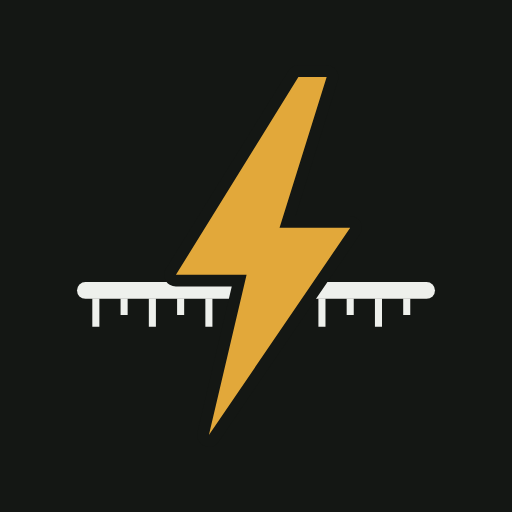
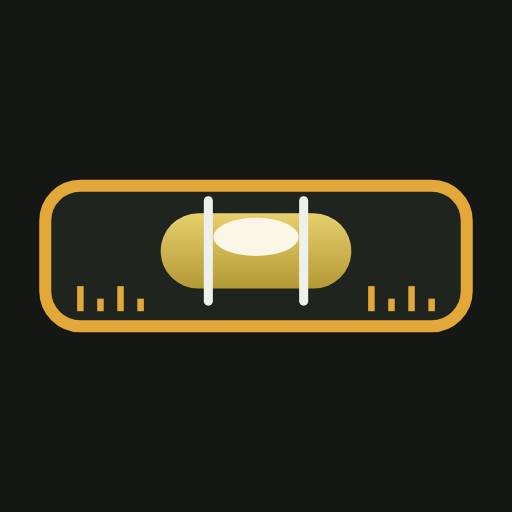
Abertura e ícone com nível de bolha: a bolha se acomoda no centro e o nome aparece
Claude-Session: https://claude.ai/code/session_017oJyFuK3FA9F6xfa9LApCQ

Changed region(s): [[0.0625, 0.125, 0.9375, 0.8438]]

diff --git a/index.html b/index.html
@@ -419,80 +419,74 @@ body.lock{overflow:hidden}
 @media (max-width:380px){.av-icones{grid-template-columns:repeat(4,minmax(0,1fr))}.av-cores{grid-template-columns:repeat(4,minmax(0,1fr))}}
 [hidden]{display:none!important}
 
-/* ---------- abertura: raio de verdade (canvas) + nome no impacto ---------- */
-.intro{position:fixed;inset:0;z-index:100;background:#0b0d0b;overflow:hidden;cursor:pointer}
-.intro.sai{transition:opacity .45s ease;opacity:0}
+/* ---------- abertura: nível de bolha que se acomoda no centro ---------- */
+.intro{position:fixed;inset:0;z-index:100;background:radial-gradient(120% 80% at 50% 45%,#1d211c 0%,#0e100e 70%);overflow:hidden;cursor:pointer;display:grid;place-items:center}
+.intro.sai{transition:opacity .5s ease;opacity:0}
 .sem-intro .intro{display:none}
-.intro canvas{position:absolute;inset:0;width:100%;height:100%}
-.intro-txt{position:absolute;left:0;right:0;top:50%;transform:translateY(-62%);display:grid;justify-items:center;gap:14px;pointer-events:none}
-.intro-nome{font-family:var(--display);font-weight:700;font-size:clamp(3.2rem,16vw,5.6rem);line-height:1;letter-spacing:.08em;color:#f4f1e6;text-transform:uppercase;opacity:0;white-space:nowrap}
-.intro-regua{position:relative;width:min(80vw,340px);height:16px;opacity:0}
-.intro-regua i{position:absolute;left:0;right:0;top:0;height:3px;border-radius:2px;background:#e2a83a;transform:scaleX(0);box-shadow:0 0 10px rgba(226,168,58,.8)}
-.intro-regua b{position:absolute;top:3px;width:2px;height:7px;background:#e2a83a;opacity:0}
-.intro-regua b.g{height:12px}
-.intro.hit .intro-nome{animation:nome-hit 1.1s cubic-bezier(.2,.8,.2,1) forwards}
-.intro.hit .intro-regua{opacity:1}
-.intro.hit .intro-regua i{animation:regua-hit .5s .08s cubic-bezier(.2,.8,.2,1) forwards}
-.intro.hit .intro-regua b{animation:tick-hit .2s forwards}
-.intro.shake .intro-txt{animation:shake .38s linear}
-@keyframes nome-hit{0%{opacity:1;color:#fff;transform:scale(1.18);filter:blur(6px);text-shadow:0 0 30px #fff,0 0 60px #e2a83a}
- 25%{filter:blur(0);transform:scale(1)}100%{opacity:1;color:#f4f1e6;transform:scale(1);filter:none;text-shadow:0 0 18px rgba(226,168,58,.45)}}
-@keyframes regua-hit{to{transform:scaleX(1)}}
-@keyframes tick-hit{to{opacity:.9}}
-@keyframes shake{0%,100%{transform:translateY(-62%)}15%{transform:translate(-7px,-60%)}30%{transform:translate(6px,-64%)}45%{transform:translate(-4px,-61%)}60%{transform:translate(3px,-63%)}80%{transform:translate(-1px,-62%)}}
-@media (prefers-reduced-motion:reduce){.intro.hit .intro-nome,.intro.hit .intro-regua i,.intro.hit .intro-regua b{animation:none;opacity:1;transform:none;filter:none}.intro.shake .intro-txt{animation:none}}
+.nv-wrap{display:grid;grid-template-columns:minmax(0,1fr);justify-items:center;gap:30px;width:min(84vw,360px);transform:translateY(-4%)}
+.nv{width:100%;height:auto;overflow:visible;will-change:transform}
+.nv .corpo{fill:#1f241f;stroke:#3a4037;stroke-width:1.5}
+.nv .aresta{fill:none;stroke:#e2a83a;stroke-width:1.6;opacity:.55;transition:opacity .4s}
+.nv .tubo{fill:url(#liq);stroke:#4a503f;stroke-width:1.2}
+.nv .bolha{fill:#fbf6e6;opacity:.92}
+.nv .brilho{fill:#fff;opacity:.85}
+.nv .marca{stroke:#9aa296;stroke-width:2;stroke-linecap:round;transition:stroke .2s}
+.nv .tk{stroke:#5d6458;stroke-width:1.4;transition:stroke .25s,opacity .25s}
+.nv .halo{fill:#e2a83a;opacity:0}
+.intro.ok .nv .marca{stroke:#e2a83a}
+.intro.ok .nv .aresta{opacity:1}
+.intro.ok .nv .halo{animation:halo .9s ease-out forwards}
+.intro.ok .nv .tk{stroke:#e2a83a}
+.nv-nome{justify-self:center;max-width:none;font-family:var(--display);font-weight:700;font-size:clamp(3rem,15vw,5.2rem);line-height:1;letter-spacing:.5em;color:#eef0ec;text-transform:uppercase;opacity:0;white-space:nowrap;margin-right:-.5em}
+.intro.ok .nv-nome{animation:nome-ok .9s .1s cubic-bezier(.2,.8,.2,1) forwards}
+.nv-sub{font-family:var(--body);font-size:.8rem;letter-spacing:.3em;text-transform:uppercase;color:#9aa296;opacity:0;margin-top:-18px}
+.intro.ok .nv-sub{animation:fade-ok .6s .55s ease forwards}
+@keyframes halo{0%{opacity:.55;transform:scale(.6)}100%{opacity:0;transform:scale(2.4)}}
+@keyframes nome-ok{0%{opacity:0;letter-spacing:.5em;margin-right:-.5em;filter:blur(4px)}100%{opacity:1;letter-spacing:.08em;margin-right:-.08em;filter:none}}
+@keyframes fade-ok{to{opacity:1}}
+@media (prefers-reduced-motion:reduce){.intro.ok .nv-nome,.intro.ok .nv-sub{animation:none;opacity:1;letter-spacing:.08em}.intro.ok .nv .halo{animation:none}}
 </style>
 
 
 </head>
 <body>
 <div class="intro" id="intro" aria-hidden="true">
- <canvas id="intro-cv"></canvas>
- <div class="intro-txt"><div class="intro-nome">Na Régua</div><div class="intro-regua"><i></i><b class="g" style="left:calc(0% - 1px);animation-delay:0.400s"></b><b class="" style="left:calc(5% - 1px);animation-delay:0.375s"></b><b class="" style="left:calc(10% - 1px);animation-delay:0.350s"></b><b class="" style="left:calc(15% - 1px);animation-delay:0.325s"></b><b class="" style="left:calc(20% - 1px);animation-delay:0.300s"></b><b class="g" style="left:calc(25% - 1px);animation-delay:0.275s"></b><b class="" style="left:calc(30% - 1px);animation-delay:0.250s"></b><b class="" style="left:calc(35% - 1px);animation-delay:0.225s"></b><b class="" style="left:calc(40% - 1px);animation-delay:0.200s"></b><b class="" style="left:calc(45% - 1px);animation-delay:0.175s"></b><b class="g" style="left:calc(50% - 1px);animation-delay:0.150s"></b><b class="" style="left:calc(55% - 1px);animation-delay:0.175s"></b><b class="" style="left:calc(60% - 1px);animation-delay:0.200s"></b><b class="" style="left:calc(65% - 1px);animation-delay:0.225s"></b><b class="" style="left:calc(70% - 1px);animation-delay:0.250s"></b><b class="g" style="left:calc(75% - 1px);animation-delay:0.275s"></b><b class="" style="left:calc(80% - 1px);animation-delay:0.300s"></b><b class="" style="left:calc(85% - 1px);animation-delay:0.325s"></b><b class="" style="left:calc(90% - 1px);animation-delay:0.350s"></b><b class="" style="left:calc(95% - 1px);animation-delay:0.375s"></b><b class="g" style="left:calc(100% - 1px);animation-delay:0.400s"></b></div></div>
+ <div class="nv-wrap">
+  <svg class="nv" id="nv" viewBox="0 0 320 64">
+   <defs><linearGradient id="liq" x1="0" y1="0" x2="0" y2="1"><stop offset="0" stop-color="#d9c86a"/><stop offset="1" stop-color="#a99a3c"/></linearGradient>
+    <clipPath id="tubo-c"><rect x="110" y="12" width="100" height="24" rx="12"/></clipPath></defs>
+   <rect class="corpo" x="4" y="4" width="312" height="44" rx="9"/>
+   <rect class="aresta" x="4" y="4" width="312" height="44" rx="9"/>
+   <line class="tk" x1="20" y1="44" x2="20" y2="36" data-d="140"/><line class="tk" x1="30" y1="44" x2="30" y2="40" data-d="130"/><line class="tk" x1="40" y1="44" x2="40" y2="40" data-d="120"/><line class="tk" x1="50" y1="44" x2="50" y2="40" data-d="110"/><line class="tk" x1="60" y1="44" x2="60" y2="36" data-d="100"/><line class="tk" x1="70" y1="44" x2="70" y2="40" data-d="90"/><line class="tk" x1="80" y1="44" x2="80" y2="40" data-d="80"/><line class="tk" x1="90" y1="44" x2="90" y2="40" data-d="70"/><line class="tk" x1="100" y1="44" x2="100" y2="36" data-d="60"/><line class="tk" x1="220" y1="44" x2="220" y2="36" data-d="60"/><line class="tk" x1="230" y1="44" x2="230" y2="40" data-d="70"/><line class="tk" x1="240" y1="44" x2="240" y2="40" data-d="80"/><line class="tk" x1="250" y1="44" x2="250" y2="40" data-d="90"/><line class="tk" x1="260" y1="44" x2="260" y2="36" data-d="100"/><line class="tk" x1="270" y1="44" x2="270" y2="40" data-d="110"/><line class="tk" x1="280" y1="44" x2="280" y2="40" data-d="120"/><line class="tk" x1="290" y1="44" x2="290" y2="40" data-d="130"/><line class="tk" x1="300" y1="44" x2="300" y2="36" data-d="140"/>
+   <circle class="halo" cx="160" cy="24" r="14" style="transform-origin:160px 24px"/>
+   <rect class="tubo" x="110" y="12" width="100" height="24" rx="12"/>
+   <g clip-path="url(#tubo-c)"><g id="bolha"><ellipse class="bolha" cx="160" cy="18.5" rx="14" ry="6.5"/><ellipse class="brilho" cx="155" cy="16.5" rx="4" ry="1.6"/></g></g>
+   <line class="marca" x1="143" y1="9" x2="143" y2="39"/><line class="marca" x1="177" y1="9" x2="177" y2="39"/>
+  </svg>
+  <div class="nv-nome">Na Régua</div>
+  <div class="nv-sub">treino e dieta</div>
+ </div>
 </div>
 <script>
-/* raio procedural: cada abertura é diferente */
+/* nível: começa torto, balança e a bolha se acomoda entre as marcas */
 (function(){const el=document.getElementById('intro');if(!el||document.documentElement.classList.contains('sem-intro'))return;
- const cv=document.getElementById('intro-cv'),x=cv.getContext('2d');let W,H,dpr;
- function size(){dpr=Math.min(2,window.devicePixelRatio||1);W=innerWidth;H=innerHeight;cv.width=W*dpr;cv.height=H*dpr;x.setTransform(dpr,0,0,dpr,0,0)}size();
- const reduz=matchMedia('(prefers-reduced-motion: reduce)').matches;
- const alvo=()=>{const r=el.querySelector('.intro-regua').getBoundingClientRect();return {x:W/2,y:r.top+1}};
- /* gera o caminho em zigue-zague por subdivisão com deslocamento */
- function raio(x0,y0,x1,y1,desv,nivel){let pts=[[x0,y0],[x1,y1]];
-  for(let k=0;k<7;k++){const n=[];for(let i=0;i<pts.length-1;i++){const a=pts[i],b=pts[i+1];const mx=(a[0]+b[0])/2,my=(a[1]+b[1])/2;
-    const dx=b[0]-a[0],dy=b[1]-a[1],len=Math.hypot(dx,dy)||1;const off=(Math.random()-.5)*desv;n.push(a,[mx-dy/len*off,my+dx/len*off])}n.push(pts[pts.length-1]);pts=n;desv*=.55}
-  const galhos=[];if(nivel<2)for(let i=6;i<pts.length-8;i+=1){if(Math.random()<(nivel?0.025:0.05)){const p=pts[i];const ang=Math.atan2(y1-y0,x1-x0)+(Math.random()<.5?-1:1)*(.35+Math.random()*.6);
-    const L=(nivel?60:140)*(0.4+Math.random()*.8);galhos.push(raio(p[0],p[1],p[0]+Math.cos(ang)*L,p[1]+Math.sin(ang)*L,L*.35,nivel+1))}}
-  return {pts,galhos,nivel}}
- function traca(r,ate,larg,cor,blur){const n=Math.max(2,Math.floor(r.pts.length*ate));x.beginPath();x.moveTo(r.pts[0][0],r.pts[0][1]);
-  for(let i=1;i<n;i++)x.lineTo(r.pts[i][0],r.pts[i][1]);x.lineWidth=larg*(r.nivel?0.45/r.nivel:1);x.strokeStyle=cor;x.shadowBlur=blur;x.shadowColor=cor;x.stroke();
-  r.galhos.forEach(g=>{const gi=Math.floor(r.pts.length*ate);if(gi>8)traca(g,Math.min(1,ate*1.3),larg,cor,blur)})}
- function desenha(r,ate,forca){x.lineCap='round';x.lineJoin='round';x.globalCompositeOperation='lighter';
-  traca(r,ate,14*forca,'rgba(226,168,58,'+(0.18*forca)+')',40);traca(r,ate,6*forca,'rgba(255,214,140,'+(0.5*forca)+')',22);traca(r,ate,2.2,'rgba(255,255,248,'+Math.min(1,forca)+')',8);x.globalCompositeOperation='source-over';x.shadowBlur=0}
- let faiscas=[];function solta(px,py){for(let i=0;i<46;i++){const a=-Math.PI*Math.random(),v=2+Math.random()*7;faiscas.push({x:px,y:py,vx:Math.cos(a)*v,vy:Math.sin(a)*v-1,v:1})}}
- const T0=performance.now();let bolt=null,bolt2=null,hit=false,fim=false;const ini=reduz?0:520;
- function quadro(t){if(fim)return;const ms=t-T0;x.clearRect(0,0,W,H);const p=alvo();
-  /* céu escuro com nuvem iluminada */
-  const g=x.createRadialGradient(W/2,-H*.1,10,W/2,-H*.1,H*.8);g.addColorStop(0,'rgba(60,62,56,'+(ms<ini?0.35+0.25*Math.sin(ms/60)**2:0.4)+')');g.addColorStop(1,'rgba(11,13,11,0)');x.fillStyle=g;x.fillRect(0,0,W,H);
-  if(!bolt&&ms>200&&!reduz)bolt=raio(W/2+(Math.random()-.5)*W*.35,-20,p.x,p.y,W*.32,0);
-  /* líder descendo */
-  if(bolt&&ms<ini)desenha(bolt,Math.min(1,(ms-200)/(ini-200))**1.6,0.55);
-  /* impacto */
-  if(ms>=ini&&!hit){hit=true;el.classList.add('hit','shake');solta(p.x,p.y);if(!bolt)bolt=raio(W/2,-20,p.x,p.y,W*.3,0);bolt2=raio(W/2+(Math.random()-.5)*W*.5,-20,p.x,p.y,W*.3,0)}
-  if(hit){const d=ms-ini;
-   /* clarão do céu inteiro */
-   const fl=d<80?1:d<160?0.25:d<230?0.7:d<420?Math.max(0,0.7-(d-230)/270):0;if(fl>0){x.fillStyle='rgba(255,250,235,'+fl*0.55+')';x.fillRect(0,0,W,H)}
-   /* o raio pisca algumas vezes e some */
-   const f=d<90?1.5:d<150?0.25:d<240?1.25:d<300?0.15:d<380?0.9:Math.max(0,0.9-(d-380)/380);
-   if(f>0){desenha(d>=150&&d<300?bolt2:bolt,1,f);
-    const gl=x.createRadialGradient(p.x,p.y,0,p.x,p.y,140);gl.addColorStop(0,'rgba(255,230,170,'+0.55*f+')');gl.addColorStop(1,'rgba(226,168,58,0)');x.fillStyle=gl;x.fillRect(p.x-140,p.y-140,280,280)}
-   /* faíscas */
-   faiscas.forEach(s=>{s.x+=s.vx;s.y+=s.vy;s.vy+=0.28;s.vx*=0.98;s.v*=0.955;if(s.v>0.05){x.fillStyle='rgba(255,'+(190+60*s.v|0)+',120,'+s.v+')';x.fillRect(s.x,s.y,2.2,2.2)}});
-  }
-  if(ms<3200)requestAnimationFrame(quadro)}
+ const nv=document.getElementById('nv'),bo=document.getElementById('bolha');const reduz=matchMedia('(prefers-reduced-motion: reduce)').matches;
+ let ang=reduz?0:-11,va=0,pos=reduz?0:26,vp=0,ok=false,fim=false,last=performance.now(),t0=last,empurrao=false;
+ const ticks=[...el.querySelectorAll('.tk')].sort((a,b)=>a.dataset.d-b.dataset.d);
+ function acerta(){if(ok)return;ok=true;el.classList.add('ok');ticks.forEach((t,i)=>t.style.transitionDelay=(i*0.018)+'s');setTimeout(sair,1300)}
+ function quadro(t){if(fim)return;const dt=Math.min(0.032,(t-last)/1000);last=t;const ms=t-t0;
+  if(!reduz&&ms>150){
+   /* um empurrãozinho no meio para parecer de verdade */
+   if(!empurrao&&ms>520){empurrao=true;va+=26}
+   const aa=-62*ang-6.8*va;va+=aa*dt;ang+=va*dt;
+   const alvo=Math.max(-27,Math.min(27,-ang*3.1));const ap=95*(alvo-pos)-10.5*vp;vp+=ap*dt;pos+=vp*dt;pos=Math.max(-28,Math.min(28,pos))}
+  nv.style.transform=`rotate(${ang}deg)`;bo.setAttribute('transform',`translate(${pos},0)`);
+  if(reduz||(ms>1000&&Math.abs(ang)<0.25&&Math.abs(va)<1.2&&Math.abs(pos)<0.8&&Math.abs(vp)<4)){ang=0;pos=0;nv.style.transform='none';bo.setAttribute('transform','');acerta()}
+  if(ms>1900&&!ok){ang=0;pos=0;acerta()}
+  if(!ok||ms<4000)requestAnimationFrame(quadro)}
  requestAnimationFrame(quadro);
- const sair=()=>{if(fim)return;fim=true;el.classList.add('sai');setTimeout(()=>el.remove(),470)};
- setTimeout(sair,reduz?1200:2700);el.addEventListener('click',sair);addEventListener('resize',size);window.__introSair=sair})();
+ function sair(){if(fim)return;fim=true;el.classList.add('sai');setTimeout(()=>el.remove(),520)}
+ el.addEventListener('click',sair);setTimeout(sair,4200)})();
 </script>
 <main id="app"></main>
 

diff --git a/sw.js b/sw.js
@@ -1,4 +1,4 @@
-const CACHE='na-regua-v17';
+const CACHE='na-regua-v19';
 const ASSETS=['./','./index.html','./manifest.webmanifest','./icon-192.png','./icon-512.png','./icon-180.png','./icon-maskable-512.png'];
 self.addEventListener('install',e=>{e.waitUntil(caches.open(CACHE).then(c=>c.addAll(ASSETS)));self.skipWaiting()});
 self.addEventListener('activate',e=>{e.waitUntil(caches.keys().then(ks=>Promise.all(ks.filter(k=>k!==CACHE).map(k=>caches.delete(k)))));self.clients.claim()});
